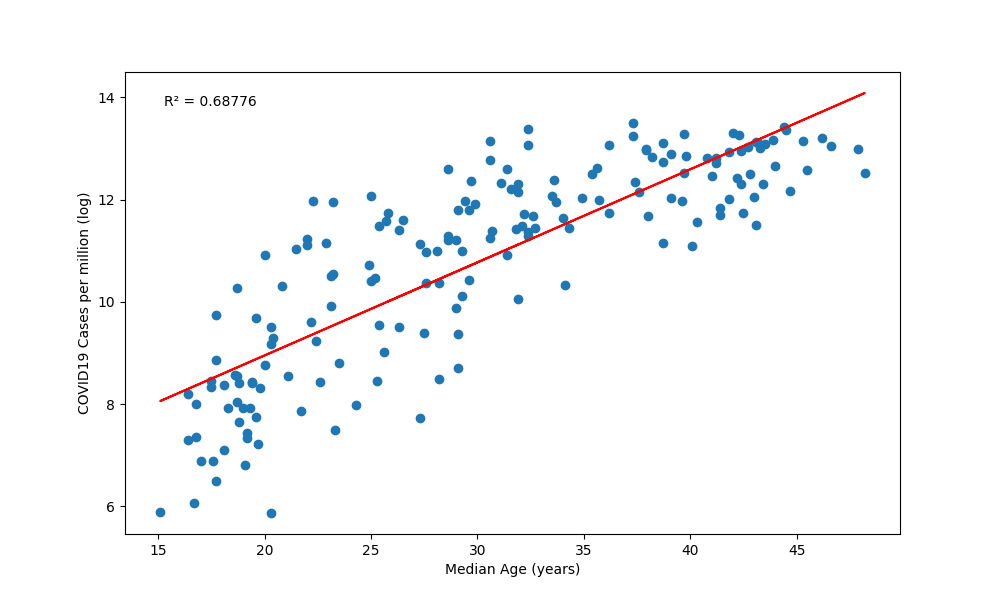
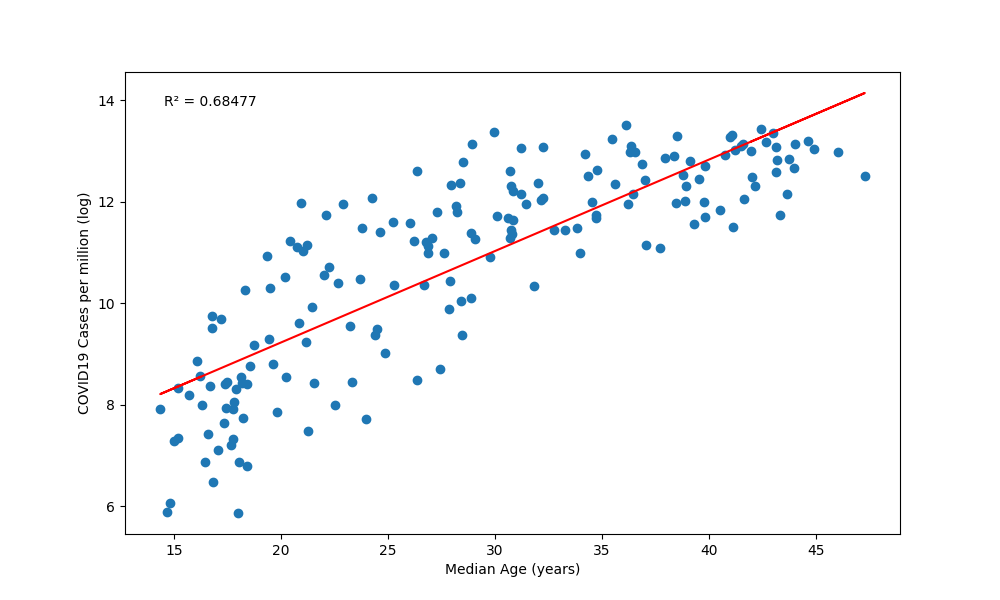
refactor: Update ANALYSIS and results considering 2019 population
- updated pop pyramids
- updated other metrics such that they select population year we are  choosing

diff --git a/ANALYSIS/Plot_other_Metrics.py b/ANALYSIS/Plot_other_Metrics.py
@@ -10,9 +10,15 @@ sys.path.append(main_dir)
 
 COVID_DATA_DIR = os.path.join(main_dir, 'Data\\covid_data_by_country')
 SAVE_DIR = os.path.join(main_dir, 'RESULTS\\POPSTATCOVID\\OTHER_METRICS')
+MEDIAN_AGE_DATA = os.path.join(main_dir, 'Data\\owid_data\\median-age.csv')
+GDP_PER_CAPITA_DATA = os.path.join(main_dir, 'Data\\owid_data\\gdp-per-capita.csv')
+POPULATION_DENSITY_DATA = os.path.join(main_dir, 'Data\\owid_data\\population-density.csv')
+HUMAN_DEVELOPMENT_INDEX_DATA = os.path.join(main_dir, 'Data\\owid_data\\human-development-index.csv')
+LIFE_EXPECTANCY_DATA = os.path.join(main_dir, 'Data\\owid_data\\life-expectancy.csv')
 
 class PLOT_OTHER_METRICS:
-    def __init__(self, countries):
+    def __init__(self, countries, year):
+        self.year = year
         self.countries = countries
         self.Y_CASES = []
         self.Y_DEATHS = []
@@ -20,59 +26,100 @@ class PLOT_OTHER_METRICS:
             data = pd.read_csv(os.path.join(COVID_DATA_DIR, f'{country}_covid_data.csv'))
             self.Y_DEATHS.append(np.log(data['total_deaths_per_million'].values[0]))
             self.Y_CASES.append(np.log(data['total_cases_per_million'].values[0]))
+
+        self.Median_age_data = pd.read_csv(MEDIAN_AGE_DATA)
+        self.Median_age_data = self.Median_age_data[self.Median_age_data['Year'] == int(self.year)]
+        self.Median_age_data.columns = ['Entity', 'Code', 'Year', 'Median age', '']
+
+        self.GDP_per_capita_data = pd.read_csv(GDP_PER_CAPITA_DATA)
+        self.GDP_per_capita_data = self.GDP_per_capita_data[self.GDP_per_capita_data['Year'] == int(self.year)]
+        self.GDP_per_capita_data.columns = ['Entity', 'Code', 'Year', 'GDP per capita','']
+
+        self.Population_density_data = pd.read_csv(POPULATION_DENSITY_DATA)
+        self.Population_density_data = self.Population_density_data[self.Population_density_data['Year'] == int(self.year)]
+
+        self.Human_development_index_data = pd.read_csv(HUMAN_DEVELOPMENT_INDEX_DATA)
+        self.Human_development_index_data = self.Human_development_index_data[self.Human_development_index_data['Year'] == int(self.year)]
+
+        self.Life_expectancy_data = pd.read_csv(LIFE_EXPECTANCY_DATA)
+        self.Life_expectancy_data = self.Life_expectancy_data[self.Life_expectancy_data['Year'] == int(self.year)]
+        self.Life_expectancy_data.columns = ['Entity', 'Code', 'Year', 'Life expectancy']
+
         
     def MEDIAN_AGE(self):
         X = []
         for country in self.countries:
-            data = pd.read_csv(os.path.join(COVID_DATA_DIR, f'{country}_covid_data.csv'))
-            X.append(data['median_age'].values[0])
+            data = self.Median_age_data[self.Median_age_data['Entity'].str.lower() == country]
+            X.append(data['Median age'].values[0])
 
         self.plotter(X,self.Y_CASES,"Cases","Median Age (years)")
         self.plotter(X,self.Y_DEATHS,"Deaths","Median Age (years)")
 
     def GDP_PER_CAPITA(self):
         X = []
+        Y_CASES_filtered = []
+        Y_DEATHS_filtered = []
+        i = 0
         for country in self.countries:
-            data = pd.read_csv(os.path.join(COVID_DATA_DIR, f'{country}_covid_data.csv'))
-            X.append(data['gdp_per_capita'].values[0])
+            data = self.GDP_per_capita_data[self.GDP_per_capita_data['Entity'].str.lower() == country]
+            if data.empty:
+                i += 1
+                continue
+            X.append(data['GDP per capita'].values[0])
+            Y_CASES_filtered.append(self.Y_CASES[i])
+            Y_DEATHS_filtered.append(self.Y_DEATHS[i])
+            i += 1
 
-        self.plotter(X,self.Y_CASES,"Cases","GDP per Capita (USD)")
-        self.plotter(X,self.Y_DEATHS,"Deaths","GDP per Capita (USD)")
+        self.plotter(X,Y_CASES_filtered,"Cases","GDP per Capita (USD)")
+        self.plotter(X,Y_DEATHS_filtered,"Deaths","GDP per Capita (USD)")
 
     def POPULATION_DENSITY(self):
         X = []
         for country in self.countries:
-            data = pd.read_csv(os.path.join(COVID_DATA_DIR, f'{country}_covid_data.csv'))
-            X.append(data['population_density'].values[0])
+            data = self.Population_density_data[self.Population_density_data['Entity'].str.lower() == country]
+            X.append(data['Population density'].values[0])
 
         self.plotter(X,self.Y_CASES,"Cases","Population Density (per km²)")
         self.plotter(X,self.Y_DEATHS,"Deaths","Population Density (per km²)")
 
     def HUMAN_DEVELOPMENT_INDEX(self):
         X = []
+        Y_CASES_filtered = []
+        Y_DEATHS_filtered = []
+        i = 0
         for country in self.countries:
-            data = pd.read_csv(os.path.join(COVID_DATA_DIR, f'{country}_covid_data.csv'))
-            X.append(data['human_development_index'].values[0])
+            data = self.Human_development_index_data[self.Human_development_index_data['Entity'].str.lower() == country]
+            if data.empty:
+                i += 1
+                continue
+            X.append(data['Human Development Index'].values[0])
+            Y_CASES_filtered.append(self.Y_CASES[i])
+            Y_DEATHS_filtered.append(self.Y_DEATHS[i])
+            i += 1
 
-        self.plotter(X,self.Y_CASES,"Cases","Human Development Index")
-        self.plotter(X,self.Y_DEATHS,"Deaths","Human Development Index")
+        self.plotter(X,Y_CASES_filtered,"Cases","Human Development Index")
+        self.plotter(X,Y_DEATHS_filtered,"Deaths","Human Development Index")
 
     def LIFE_EXPECTANCY(self):
         X = []
+        Y_CASES_filtered = []
+        Y_DEATHS_filtered = []
+        i = 0
         for country in self.countries:
-            data = pd.read_csv(os.path.join(COVID_DATA_DIR, f'{country}_covid_data.csv'))
-            X.append(data['life_expectancy'].values[0])
+            data = self.Life_expectancy_data[self.Life_expectancy_data['Entity'].str.lower() == country]
+            if data.empty:
+                i += 1
+                continue
+            X.append(data['Life expectancy'].values[0])
+            Y_CASES_filtered.append(self.Y_CASES[i])
+            Y_DEATHS_filtered.append(self.Y_DEATHS[i])
+            i += 1
 
-        self.plotter(X,self.Y_CASES,"Cases","Life Expectancy")
-        self.plotter(X,self.Y_DEATHS,"Deaths","Life Expectancy")
+        self.plotter(X,Y_CASES_filtered,"Cases","Life Expectancy")
+        self.plotter(X,Y_DEATHS_filtered,"Deaths","Life Expectancy")
 
     def plotter(self,X,Y,title,metric):
         plt.figure(figsize=(10, 6))
-        Y = None
-        if title == "Cases":
-            Y = self.Y_CASES
-        elif title == "Deaths":
-            Y = self.Y_DEATHS
         plt.scatter(X, Y)
         plt.xlabel(metric)
         plt.ylabel(f"COVID19 {title} per million (log)")

diff --git a/ANALYSIS/main.py b/ANALYSIS/main.py
@@ -14,14 +14,14 @@ from ANALYSIS.Population_Data_For_Date import POPULATION_DATA_FOR_DATE
 
 class ANALYSIS:
     def __init__(self):
-        self.REFERENCE_COUNTRY = 'japan'
         self.common_countries = []
+        self.year = '2020'
 
-    @staticmethod
-    def create_country_population_data():
+    def create_country_population_data(self):
         date = input("Date in YYYY or Press Enter to set year as 2020 : ")
         if date == "":
             date = '2020'
+        self.year = date
         POPULATION_DATA_FOR_DATE(date)
 
     @staticmethod
@@ -38,7 +38,7 @@ class ANALYSIS:
         plotter.run()
 
     def plot_other_metrics(self):
-        plotter = PLOT_OTHER_METRICS(self.common_countries)
+        plotter = PLOT_OTHER_METRICS(self.common_countries, self.year)
         plotter.MEDIAN_AGE()
         plotter.GDP_PER_CAPITA()
         plotter.POPULATION_DENSITY()
